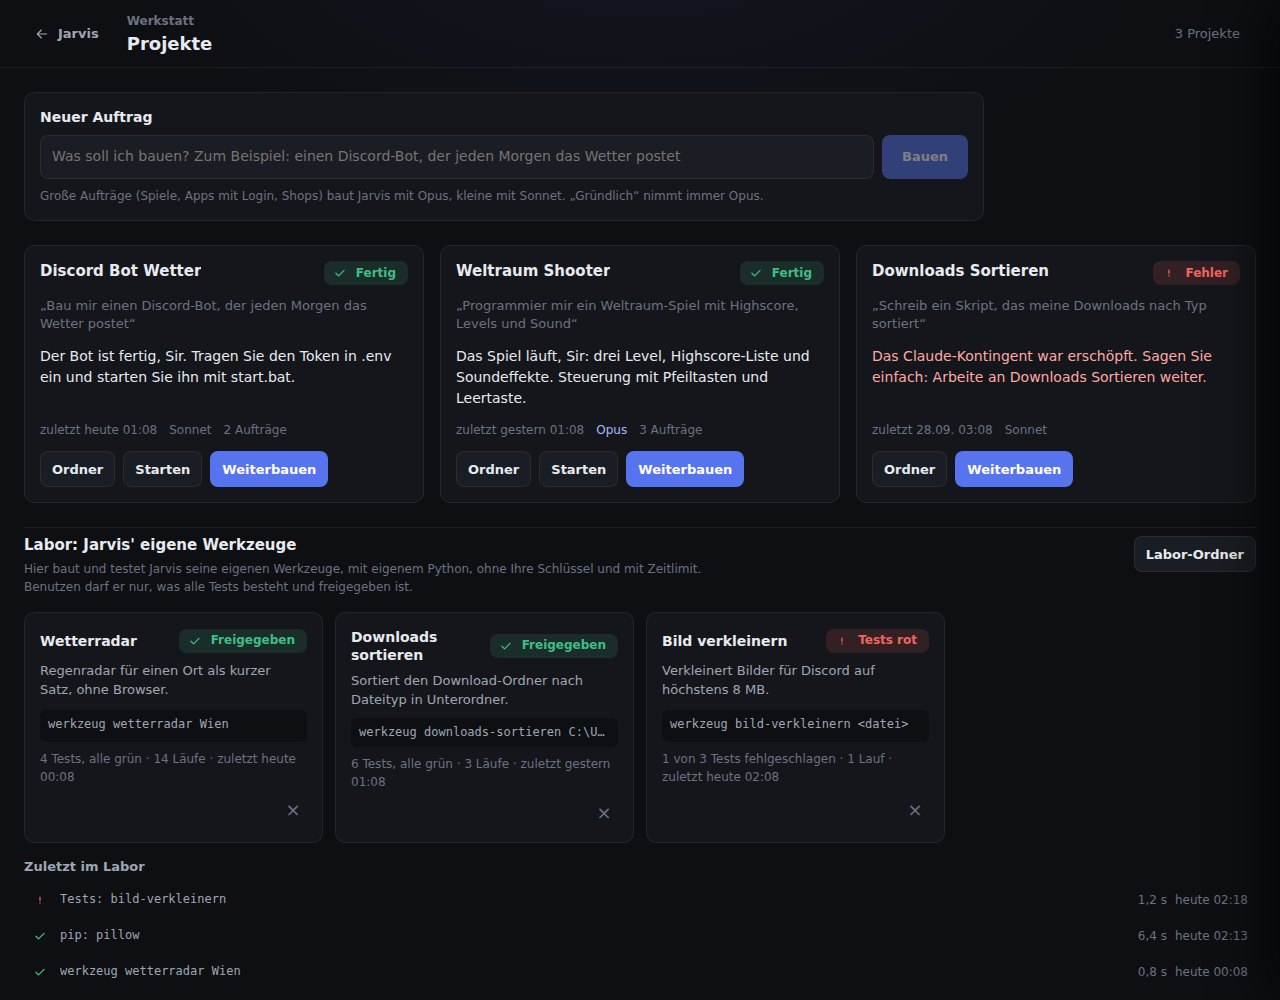
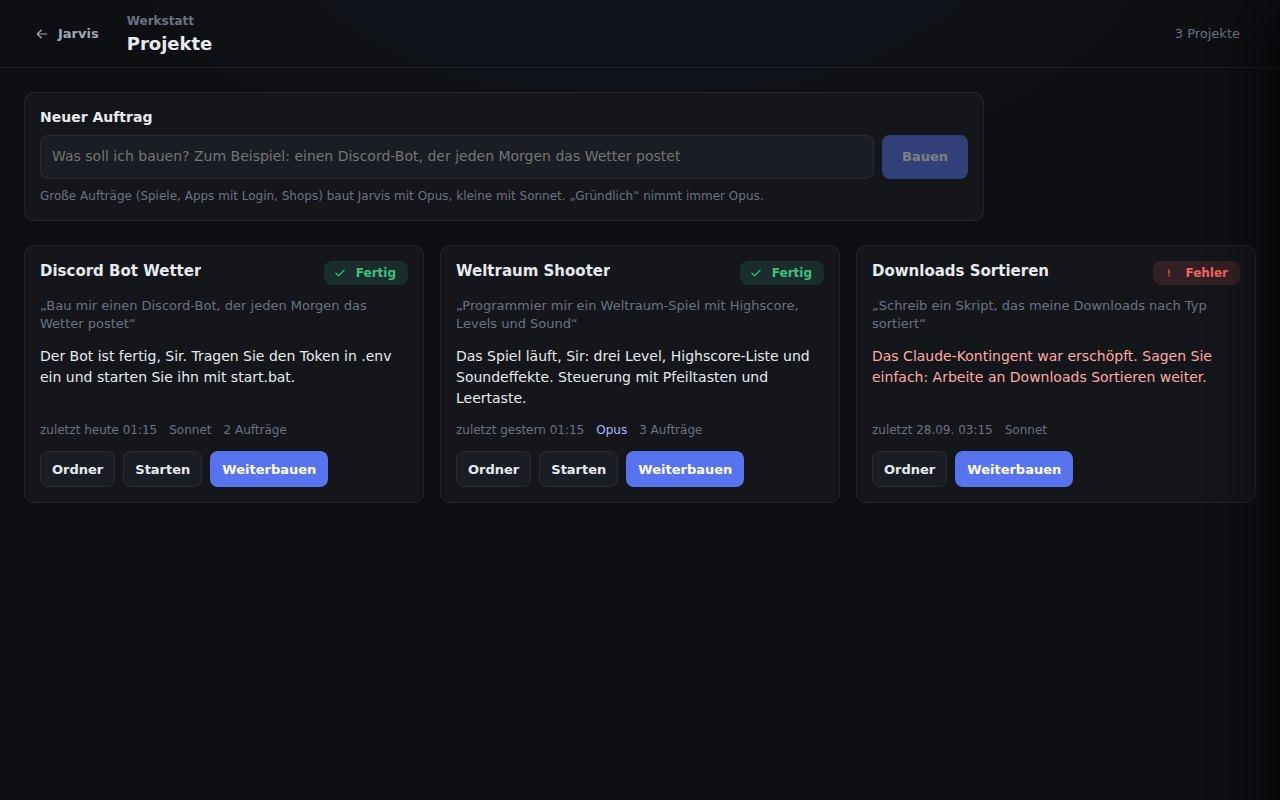
Labor noch nicht versprechen
Das Labor (Jarvis' eigene Werkzeuge) ist noch nicht eingebaut. Die
Funktionsliste nennt es deshalb nicht, das Projekte-Bild zeigt es nicht,
und die Vorschau im Demo-Modus erscheint nur mit ?labor.

Claude-Session: https://claude.ai/code/session_01SmtJ1qc8wnYu9sLYM9z56c

diff --git a/jarvis/gui/web/app.js b/jarvis/gui/web/app.js
@@ -1417,7 +1417,7 @@
       mail_add: () => Promise.resolve({ ok: true, fehler: '', konto: null }),
       mail_remove: () => Promise.resolve({ ok: true, fehler: '' }),
       mail_help: () => Promise.resolve(true),
-      labor_info: () => Promise.resolve(DEMO_LABOR),
+      labor_info: () => (/[?&]labor\b/.test(location.search) ? Promise.resolve(DEMO_LABOR) : Promise.reject(new Error('kein Labor'))),
       labor_open: () => Promise.resolve({ ok: false, error: 'Im Demo-Modus öffnet sich kein Ordner.' }),
       werkzeug_loeschen: () => Promise.resolve(true),
       shop_info: () => Promise.resolve(DEMO_SHOP),

diff --git a/README.md b/README.md
@@ -32,7 +32,6 @@ Handy    → eigene Web-App im WLAN (QR-Code), Alexa → eigener Skill über ntf
 - **Eigene Befehle und Zeitpläne:** „Wenn ich Zockmodus sage, öffne Discord und Steam“, danach reicht ein Wort. „Jeden Morgen um 8 Uhr: Briefing“, „Werktags um 18 Uhr öffne Discord“: Jarvis erledigt es von selbst (beim Zocken wartet er).
 - **Kalender:** „Trag morgen um 18 Uhr Training ein“, „Was steht heute an?“. Sagt 15 Minuten vorher Bescheid und merkt Absagen und Verschiebungen. Liest Google oder Outlook mit (geheime iCal-Adresse).
 - **iPhone, Mail und Kontakte:** Mit Apple-ID und app-spezifischem Passwort liest Jarvis den iPhone-Kalender und trägt neue Termine direkt dort ein (CalDAV), liest die Mails („Hab ich neue Mails?“, „Was schreibt Max?“, nur lesen) und kennt die Geburtstage aus den Kontakten. Dazu weitere Postfächer (Gmail, GMX, web.de, Yahoo, eigener Server). Passwörter verschlüsselt mit Windows (DPAPI), nur auf dem PC.
-- **Eigenes Labor:** Jarvis baut sich eigene Werkzeuge in seiner Sandbox (eigenes Python, ohne Schlüssel, mit Zeit- und Speicherlimit), testet sie und benutzt nur, was alle Tests besteht. Im Werkstatt-Fenster sichtbar.
 - **Shop-Hilfe (Shopify):** „Wie läuft der Shop?“, neue Bestellungen werden angesagt, die nächste Auszahlung genannt, Produkte als Entwurf angelegt. Veröffentlichen, Preise ändern, Geld ausgeben und Kunden schreiben nie.
 - **Notizbuch und Fähigkeiten:** jedes Gespräch, Personen, Recherche-Berichte und Notizen als Markdown (in Obsidian verlinkt). Anleitungen für wiederkehrende Aufgaben (Discord-Server, Briefing, Recherche, PC-Pflege, Spiele), die Claude nur bei Bedarf liest; „Lern das“ legt neue an.
 - **Lokale Stimme:** natürliche deutsche Stimme (Pocket TTS) und Spracherkennung (Parakeet) ganz auf dem PC, ohne Internet und ohne Abo, mit einem Klick in der Einrichtung.
@@ -45,9 +44,9 @@ Handy    → eigene Web-App im WLAN (QR-Code), Alexa → eigener Skill über ntf
 - **Ruhiges, modernes Fenster:** eine leuchtende Kugel als Jarvis' Gesicht, darunter das Gespräch, rechts was heute ansteht, die Auslastung des PCs und das Gedächtnis. Keine Sci-Fi-Effekte, eine Akzentfarbe, dunkel.
 - **Grafische Einrichtung** und ein **Installer im Jarvis-Look**, Selbsttest (`werkzeuge\Selbsttest.bat`) und Protokoll (`logs\jarvis.log`).
 
-| Werkstatt und Labor | Handy-App |
+| Werkstatt-Projekte | Handy-App |
 |---|---|
-| ![Werkstatt: Projekte und Labor](docs/bilder/projekte.jpg) | ![Jarvis auf dem Handy](docs/bilder/handy.jpg) |
+| ![Werkstatt: alle Projekte](docs/bilder/projekte.jpg) | ![Jarvis auf dem Handy](docs/bilder/handy.jpg) |
 
 | Verbinden: iPhone, Mail, Shop | Gedächtnis |
 |---|---|

diff --git a/ANLEITUNG.md b/ANLEITUNG.md
@@ -260,7 +260,7 @@ Lieber vorher gefragt werden? Einstellungen > Extras > **Volle Freigabe** aussch
 
 ## Die Werkstatt: Jarvis programmiert für dich
 
-![Werkstatt-Projekte und Labor](docs/bilder/projekte.jpg)
+![Die Werkstatt-Projekte](docs/bilder/projekte.jpg)
 
 Sag zum Beispiel **„Bau mir einen Discord-Bot, der jeden Morgen Hallo sagt“**, **„Programmier mir ein kleines Spiel“** oder **„Schreib mir ein Python-Skript, das meine Downloads sortiert“**.
 
